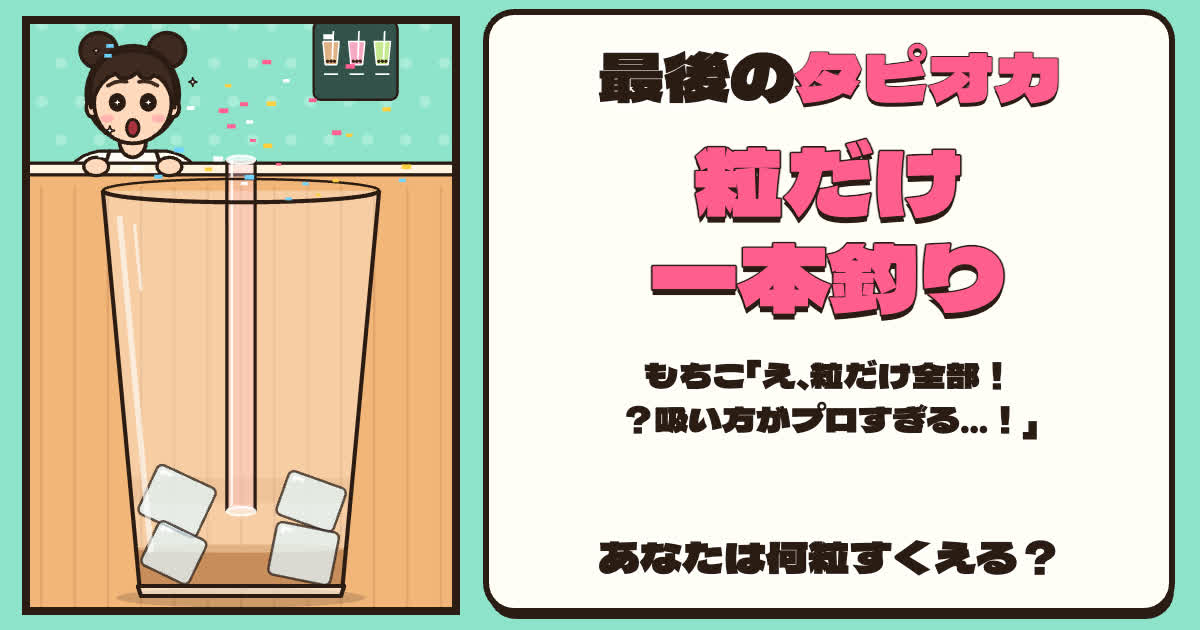
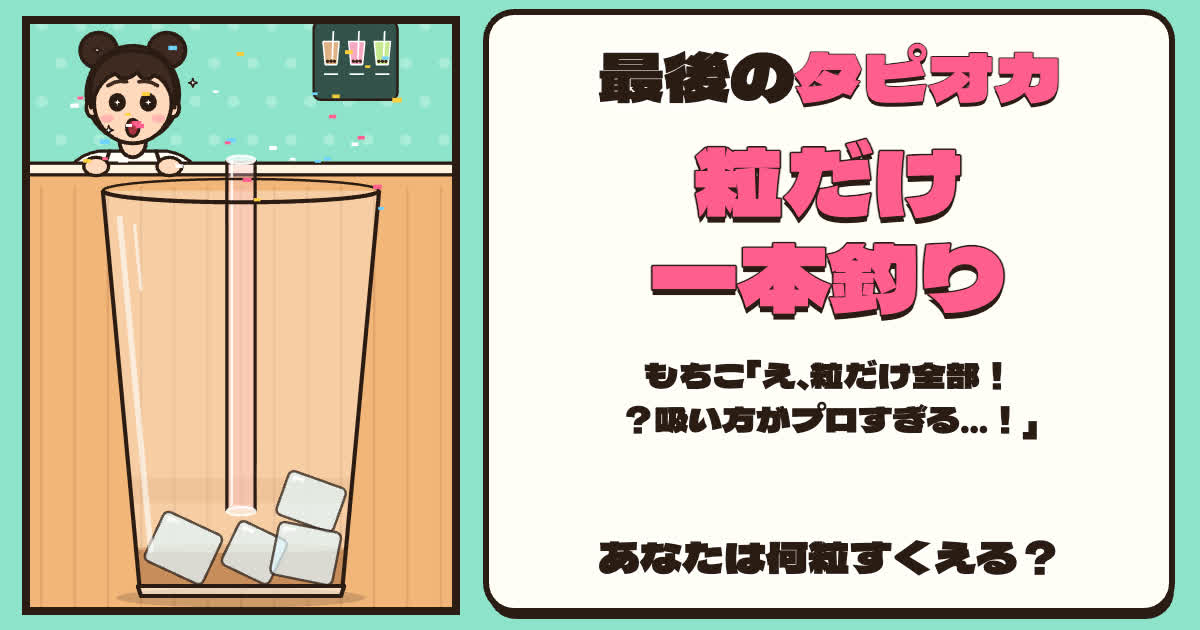
最後のタピオカ: title weight, bubble line breaks, difficulty retune

diff --git a/mini-games/pearl/index.html b/mini-games/pearl/index.html
@@ -21,6 +21,8 @@
 <style>
 :root{--ink:#2b1b14;--bg:#8fe3cc;--pink:#ff5d8f;--tea:#c98d5c;--cream:#fffdf6;--safe-top:env(safe-area-inset-top,0px);--safe-bottom:env(safe-area-inset-bottom,0px);--toolbar:calc(16vh + var(--safe-bottom))}
 *{box-sizing:border-box;-webkit-tap-highlight-color:transparent}
+h1,h2,h3{font-weight:400}
+html{font-synthesis:none}
 html,body{margin:0;width:100%;height:100%;overflow:hidden;background:var(--bg);color:var(--ink)}
 body{font-family:"M PLUS Rounded 1c","Hiragino Sans","Yu Gothic",system-ui,sans-serif;font-size:16px;font-weight:700;user-select:none;-webkit-user-select:none}
 canvas{position:fixed;inset:0;display:block;width:100%;height:100%;touch-action:none}
@@ -46,7 +48,7 @@ button:focus-visible,.btn:focus-visible,a:focus-visible{outline:4px solid #fff;o
 #fill{height:100%;width:100%;background:linear-gradient(90deg,#a9683f,var(--tea) 60%,#e8b98c)}
 #timebar{position:absolute;left:0;bottom:0;height:4px;width:100%;background:var(--ink);transform-origin:left}
 #instruction{grid-column:1/-1;text-align:center;font-size:15px;font-weight:800;margin:4px 0 0}
-#bubble{position:absolute;min-height:40px;max-width:300px;text-align:center;padding:8px 12px;font-size:16px;line-height:1.4;background:#fff;border:3px solid var(--ink);border-radius:18px;box-shadow:0 4px 0 var(--ink);z-index:4}
+#bubble{position:absolute;min-height:40px;max-width:300px;text-align:center;word-break:auto-phrase;text-wrap:balance;padding:8px 12px;font-size:16px;line-height:1.4;background:#fff;border:3px solid var(--ink);border-radius:18px;box-shadow:0 4px 0 var(--ink);z-index:4}
 #bubble::before,#bubble::after{content:"";position:absolute;top:var(--tail,50%);transform:translateY(-50%);border:solid transparent}
 #bubble::before{left:-19px;border-width:11px 19px 11px 0;border-right-color:var(--ink)}
 #bubble::after{left:-13px;border-width:8px 15px 8px 0;border-right-color:#fff}
@@ -110,7 +112,7 @@ button:focus-visible,.btn:focus-visible,a:focus-visible{outline:4px solid #fff;o
 // Plain functions shared with tools/sim.js: no DOM, no audio. Stage units (400 wide), y points down.
 const CUP={rimY:215,floorY:690,rimL:34,rimR:366,floorL:78,floorR:322};
 // The straw's open top end stays at STRAW_TOP; the tip only moves in the bottom band of the cup.
-const TEA_H=100, PEARL_R=15, STRAW_R=17, STRAW_TOP=178, TIP_MIN_Y=470, TIP_SPEED=2200, GRAV=2000;
+const TEA_H=100, PEARL_R=15, STRAW_R=17, STRAW_TOP=178, TIP_MIN_Y=470, TIP_SPEED=1800, GRAV=2000;
 // A touch teleports the finger: the tip sweeps there at TIP_SPEED, and whatever it shoves never moves faster than
 // these caps, so nothing is flung. Pearls only leave the cup through the straw.
 const PEARL_VMAX=700, ICE_VMAX=420;
@@ -119,13 +121,13 @@ const PEARL_VMAX=700, ICE_VMAX=420;
 // and a catch needs WEAK_HOLD of contact.
 const SUCK_R=50, SUCK_ACC=8600, AIR_PULL=.6, WEAK_PULL=.2, CATCH_HOLD=.04, AIR_HOLD=.15, WEAK_HOLD=.45;
 // Tea drunk per second of sucking (more when only tea comes up), plus a gulp per pearl.
-const DRAIN_TEA=.45, DRAIN_PEARL=.22, GULP=.015;
+const DRAIN_TEA=.45, DRAIN_PEARL=.22, GULP=.026;
 // One sip, one pearl: a caught pearl plugs the straw until the finger lifts. A second pearl gets in only if it
 // was touching the mouth too, within PAIR_S of the first.
-const PAIR_S=.06;
+const PAIR_S=.02;
 // A moving straw loses its grip: the pull fades with tip speed and nothing is caught above GRIP_SPEED.
 const GRIP_SPEED=120, SLIP_SPEED=400;
-const ZUGOGO_S=1.5, SNIPER_TEA=.3, MOST=.7, HALF=.35;
+const ZUGOGO_S=1.5, SNIPER_TEA=.07, MOST=.7, HALF=.35;
 // Every cup has the same number of pearls so scores compare.
 const PEARLS=16, ROUND_S=6;
 // Score: 100 per pearl. Only a full clear adds 100 per second left on the clock and 500 times the tea left,
@@ -268,7 +270,7 @@ const ROUND_MS = ROUND_S*1000, END_TO_REVEAL_MS = 1400, JACKPOT_ODDS = 1/16, TOU
 // Kept as JSON so the voice and card tools read the same names, verdicts and ids. Collection order: kind to cruel.
 const ENDINGS = [
   {"id":"refill","name":"おかわり無料","verdict":"大当たり！16杯に1杯、もちこがおかわりをサービス。","line":"いい飲みっぷり！おかわり、サービスしちゃう！","hint":"まだ見ていない結末を探そう。","mood":"happy"},
-  {"id":"sniper","name":"粒だけ一本釣り","verdict":"お茶はたっぷり残して、タピオカだけ全部。","line":"え、粒だけ全部！？吸い方がプロすぎる…！","hint":"お茶もタピオカも、ぜんぶ飲みきると…？","mood":"amazed"},
+  {"id":"sniper","name":"粒だけ一本釣り","verdict":"お茶をちゃんと残して、タピオカだけ全部。","line":"え、粒だけ全部！？吸い方がプロすぎる…！","hint":"お茶もタピオカも、ぜんぶ飲みきると…？","mood":"amazed"},
   {"id":"kanin","name":"完飲","verdict":"一粒残らず、きれいに飲みきった。","line":"全部飲んでくれた…作ってよかったぁ…！","hint":"お茶を残して、粒だけ全部すくえる？","mood":"moved"},
   {"id":"most","name":"あと一歩","verdict":"残りはほんの少し。ストローがあと一歩届かなかった。","line":"惜しい！あとちょっとだったのに〜！","hint":"氷のそばで吸うと、氷がずれるよ。","mood":"worried"},
   {"id":"half","name":"はんぶんこ","verdict":"半分は、カップの底に置いてきた。","line":"残った子たち、ちょっとさみしそう…。","hint":"粒の真上で、短くチュッと吸うのがコツ。","mood":"sad"},
@@ -366,7 +368,7 @@ function bubble(text,{shout=false}={}) {
 }
 function placeBubble() {
   const b=$('bubble'), p=stageToUi(...MOUTH), floor=stageToUi(0,STRAW_TOP-4).y, left=p.x+16;
-  b.style.maxWidth=clamp(p.w-left-6,140,300)+'px';
+  b.style.maxWidth=clamp(p.w-left-16,140,280)+'px';
   const h=b.offsetHeight, top=clamp(p.y-h/2,4,floor-h);
   b.style.left=left+'px';b.style.top=top+'px';b.style.setProperty('--tail',clamp(p.y-top,16,h-16)+'px');
 }

diff --git a/mini-games/pearl/card/sniper.html b/mini-games/pearl/card/sniper.html
@@ -4,17 +4,17 @@
 <meta charset="utf-8">
 <meta name="viewport" content="width=device-width, initial-scale=1">
 <title>粒だけ一本釣り | 最後のタピオカ</title>
-<meta name="description" content="お茶はたっぷり残して、タピオカだけ全部。 もちこ「え、粒だけ全部！？吸い方がプロすぎる…！」">
+<meta name="description" content="お茶をちゃんと残して、タピオカだけ全部。 もちこ「え、粒だけ全部！？吸い方がプロすぎる…！」">
 <meta property="og:type" content="website">
 <meta property="og:title" content="粒だけ一本釣り | 最後のタピオカ">
-<meta property="og:description" content="お茶はたっぷり残して、タピオカだけ全部。 もちこ「え、粒だけ全部！？吸い方がプロすぎる…！」">
+<meta property="og:description" content="お茶をちゃんと残して、タピオカだけ全部。 もちこ「え、粒だけ全部！？吸い方がプロすぎる…！」">
 <meta property="og:url" content="https://lys-games.github.io/mini-games/pearl/card/sniper.html">
 <meta property="og:image" content="https://lys-games.github.io/mini-games/pearl/card/sniper.jpg">
 <meta property="og:image:width" content="1200">
 <meta property="og:image:height" content="630">
 <meta name="twitter:card" content="summary_large_image">
 <meta name="twitter:title" content="粒だけ一本釣り | 最後のタピオカ">
-<meta name="twitter:description" content="お茶はたっぷり残して、タピオカだけ全部。 もちこ「え、粒だけ全部！？吸い方がプロすぎる…！」">
+<meta name="twitter:description" content="お茶をちゃんと残して、タピオカだけ全部。 もちこ「え、粒だけ全部！？吸い方がプロすぎる…！」">
 <meta name="twitter:image" content="https://lys-games.github.io/mini-games/pearl/card/sniper.jpg">
 <meta http-equiv="refresh" content="0; url=../">
 <link rel="canonical" href="https://lys-games.github.io/mini-games/pearl/">
